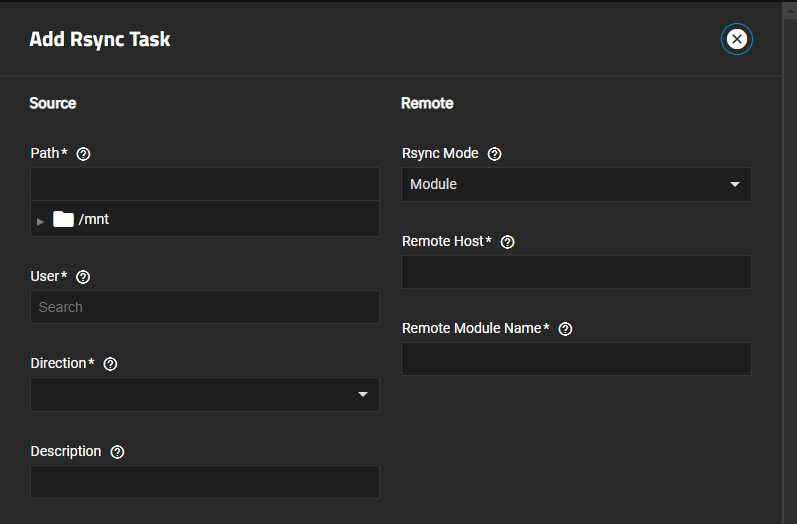
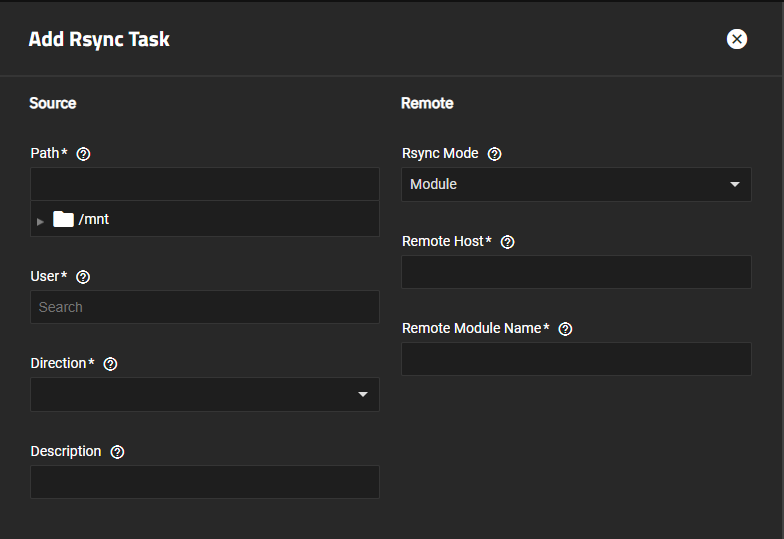
Update Rsync Tasks UI Ref Article
This commit updates the RsyncTasksScreensSCALE.md article  by adding new screenshots and content on the Rsync Tasks screen, and the difference between the Module and SSH setting screens, and updates the descriptions for settings, and reorganizes the Other Options settings. It adds the advanced scheduler snippet in an expand.

diff --git a/content/SCALE/SCALEUIReference/DataProtection/RsyncTasksScreensSCALE.md b/content/SCALE/SCALEUIReference/DataProtection/RsyncTasksScreensSCALE.md
@@ -1,6 +1,6 @@
 ---
 title: "Rsync Tasks Screens"
-description: "Provides information on the Rsync Task screens and settings."
+description: "Provides information on the Rsync Tasks screens and settings."
 weight: 30
 alias:
 tags:
@@ -8,31 +8,54 @@ tags:
  - ssh
 ---
 
-The **Rsync Task** widget on the **Data Protection** screen lists rsync tasks configured on the TrueNAS system.
+The **Rsync Task** widget on the **Data Protection** screen shows configured rsync tasks configured on the TrueNAS system, and provides access to configuration screens to add single-time or scheduled recurring transfers between TrueNAS SCALE and an rsync backup server.
+Rsync tasks are an effective method to back up data to a remote location.
+
+
+## Rsync Task Widget
+The **Rsync Tasks** widget shows a list of tasks configured on the system.
 
 {{< trueimage src="/images/SCALE/DataProtection/RsyncTaskWidget.png" alt="Data Protection Rsync Task Widget" id="Data Protection Rsync Task Widget" >}}
 
-The **Rsync Tasks** widget displays **No Rsync Tasks configured** before adding a task.
+The **Rsync Tasks** widget shows **No Rsync Tasks configured** before adding a task.
 
 {{< trueimage src="/images/SCALE/DataProtection/RsyncTaskWidgetNoTasks.png" alt="Data Protection Rsync Task Widget No Tasks" id="Data Protection Rsync Task Widget No Tasks" >}}
 
+Click on the widegt header to open the [**Rsync Task**](#rsync-task-screen) screen that lists all tasks configured on the system.
+
 **Add** opens the **[Add Rsync Task](#add-and-edit-rsync-task-screens)** screen.
 
-Each rsync task is a link to open the **[Edit Rsync Task](#add-and-edit-rsync-task-screens)** screen.
+Each task includes three icons for various functions:
 
-The widget displays the status of a task as **PENDING**, **RUNNING**, **SUCCESS** or **FAILED**.
+* The <span class="material-icons">edit</span> **Edit** icon opens the ****[Edit Rsync Task](#add-and-edit-rsync-task-screens)** screen populated with with the settings for that task.
 
-Use the <span class="material-icons">play_arrow</span> **Run Now** icon to manually run the task.
+* The <i class="material-icons" aria-hidden="true" title="Run Now">play_arrow</i> **Run Now** icon starts the rsync, running it outside of the scheduled time. 
 
-Use the <span class="material-icons">delete</span> icon to open a delete confirmation dialog.
+* The <span class="material-icons">delete</span> **Delete** icon opens a confirmation dialog before the system deletes the task.
+
+**State** displays the status of the next cloud sync task as **SUCCESS** for completed tasks, **FAILED** if the task fails to complete the sync, and **PENDING** for tasks that have not run yet.
+Click on the state oval to open the **Logs** dialog for that task. **Download Logs** saves a copy of the current task logs.
+
+{{< trueimage src="/images/SCALE/DataProtection/RsyncTaskLogDialogg.png" alt="Rsync Task Log Dialog" id="Rsync Task Log Dialog" >}}
+
+## Rsync Task Screen
+The **Rsync Task** screen lists all tasks configured on the system.
+
+{{< trueimage src="/images/SCALE/DataProtection/RsyncTasksScreen.png" alt="Rsync Task Screen" id="Rsync Task Screen" >}}
+
+Each task shows details about the configured task and the same icon buttons found on the Rsync Task widget to run the task outside of the scheduled time, edit and/or delete the task.
 
 ## Add and Edit Rsync Task Screens
 The **Add Rsync Task** and **Edit Rsync Task** display the same settings.
 
 ### Source and Remote Options
-**Source** and **Remote** settings specify the direction of the remote sync, the TrueNAS system and the remote rsync server paths to or from the data location, the method to uses to sync the TrueNAS and remote servers and the user with permissions to do the remote sync operation.
+**Source** settings specify the location of the stored data to sync with a remote server, sets the user that performs the task, and the direction of the task (send or receive data).
+The **Remote** settings specify the mode for the task and remote host connection information.
+Settings change base on the **Rsync Mode** selected (**Module** or **SSH**).
 
-{{< trueimage src="/images/SCALE/DataProtection/AddRsyncTaskSourceAndRemoteSettings.png" alt="Rsync Task Source and Remote Settings" id="Rsync Task Source and Remote Settings" >}}
+{{< trueimage src="/images/SCALE/DataProtection/AddRsyncTaskSourceAndRemoteSettings.png" alt="Rsync Task Source and Remote Module Settings" id="Rsync Task Source and Remote Module Settings" >}}
+
+{{< trueimage src="/images/SCALE/DataProtection/AddRsyncTaskSourceRemoteSSH.png" alt="Rsync Task Source and Remote SSH Settings" id="Rsync Task Source and Remote SSH Settings" >}}
 
 {{< include file="/static/includes/FileExplorerFolderIcons.md" >}}
 
@@ -40,31 +63,44 @@ The **Add Rsync Task** and **Edit Rsync Task** display the same settings.
 {{< truetable >}}
 | Setting | Description |
 |---------|-------------|
-| **Path** | Required. Enter or use the <span class="material-icons">arrow_right</span> to the left of **/mnt** folder to browse to the path to copy. Linux file path limits apply. Other operating systems can have different limits which might affect how you can use them as sources or destinations. |
-| **User** | Required. Select the user to run the rsync task. Select a user that has permissions to write to the specified directory on the remote host. |
-| **Direction** | Required. Select the direction of the flow of data to the remote host. Options are **Push** or **Pull**. During a push, the dataset transfers to the remote module. During a pull, the dataset stores files from the remote system. |
-| **Description** | Enter a description of the rsync task. |
-| **Rsync Mode** | Select the mode from the dropdown list. Select **Module** to use a custom-defined remote module from the rsync server or select **SSH** to use an SSH configuration for the rsync task. The remote system must have SSH enabled. The host system needs an established SSH connection to the remote for the rsync task. **SSH** displays more settings. |
-| **Remote Host** | Required. Enter the IP address or host name of the remote system that stores the copy. Use the format `username@remote_host` if the user name differs on the remote host. |
-| **Remote Module Name** | Required. If **Rsync Mode** is **Module** specify the name of the module on the remote rsync server. Define at least one module in [rsyncd.conf(5)](https://www.samba.org/ftp/rsync/rsyncd.conf.html) on the rsync server. Type the **Remote Module Name** exactly as it appears on the remote system. |
-| **Remote SSH Port** | Required when **Rsync Mode** is **SSH**. Enter the SSH port number of the remote system. By default, **22** is reserved in TrueNAS. |
+| **Path** | (Required) Enter or browse to the dataset or directory to sync with a remote server. Use the <span class="material-icons">arrow_right</span> to the left of **/mnt** folder to expand the folder tree, then click on the name to select and populate the **Path** field. Linux file path limits apply. Other operating systems can have different limits which might affect how to use them as sources or destinations. |
+| **User** | (Required) Select the user to run the rsync task. Select a user that has permissions to write to the specified directory on the remote host. If setting **Rsync Mode** to **SSH**, the user must have an SSH private key in their home directory if **Connect using** is set to **SSH private key stored in user's home directory**. |
+| **Direction** | (Required) Select the direction of the flow of data to the remote host. Options are:<br><li>**Push** - During a push, the dataset transfers to the remote module.<br><li>**Pull** - During a pull, the dataset stores files from the remote system.</li> |
+| **Description** | (Optional) Enter a description of the rsync task. |
+| **Rsync Mode** | Select the mode from the dropdown list. Options are:<br><li>**Module** - Select to use a custom-defined remote module from the rsync server.<br><li>**SSH** - Select to use an SSH configuration for the rsync task. The remote system must have SSH enabled. The host system needs an established SSH connection to the remote for the rsync task. **SSH** displays more settings. |
+| **Remote Host** | (Required) Enter the IP address or host name of the remote system that stores the copy. Use the format `username@remote_host` if the user name differs on the remote host. Or enter the IP address for the remote system. |
+| **Remote Module Name** | (Required) If **Rsync Mode** is set to **Module**, specify the name of the module on the remote rsync server. Define at least one module per [rsyncd.conf(5)](https://www.samba.org/ftp/rsync/rsyncd.conf.html) on the remote rsync server. Enter the **Module Name** exactly as it appears on the remote system. |
+| **Connect using** | Select the connection method from the dropdown list. Options are:<br><li>**SSH private key stored in user's home directory** - If selected, the user entered in **User** must have an SSH private key added and stored in the home directory for the user. Create the SSH connection and keypair, download the keys, then add the private key to the user in the UI and to the home directory either from the **Shell** using Linux CLI commands or while in an SSH session with the system.<br><li>**SSH connection from the keychain** - Requires creating an [SSH connection and keypair]({{< relref "AddSSHConnectionKeyPair.md" >}}) before setting up the rsync task. |
+| **Remote SSH Port** |  (Required) If **Rsync Mode** is set to **SSH**, enter the SSH port number of the remote system. By default, **22** is reserved in TrueNAS. |
 | **Remote Path** | Enter an existing path on the remote host. Maximum path length is 255 characters. |
-| **Validate Remote Path** | Displays if **Rsync Mode** is **SSH**. Select to automatically create the defined **Remote Path** if it does not exist. |
+| **Validate Remote Path** | Shows when **Rsync Mode** is set to **SSH**. Select to automatically create the defined **Remote Path** if it does not exist. |
 {{< /truetable >}}
 {{< /expand >}}
 
 ### Schedule and More Options 
-**Schedule** defines when the remote sync task occurs and **More Options** specify other settings related to when and how the rsync occurs.
+**Schedule** defines when the remote sync task occurs.
+The **More Options** specify other settings related to when and how the rsync occurs.
 
 {{< trueimage src="/images/SCALE/DataProtection/AddRsyncTaskSchedOpt.png" alt="Rsync Task Schedule and Other Options Settings" id="Rsync Task Schedule and Other Options Settings" >}}
 
-{{< expand "Schedule and More Options Settings" "v" >}}
+{{< expand "Schedule Settings" "v" >}}
 {{< truetable >}}
 | Setting | Description |
 |---------|-------------|
-| **Schedule** | Select a schedule preset or select **Custom** to open the advanced scheduler. |
+| **Schedule** | Select a schedule preset or choose **Custom** to open the advanced scheduler. |
 | **Recursive** | Select to include all subdirectories of the specified directory. When cleared, only the specified directory is included. |
 | **Enabled** | Select to enable this rsync task. Clear to disable this rsync task without deleting it. |
+{{< /truetable >}}
+
+{{< expand "Advanced Scheduler" "v" >}}
+{{< include file="/static/includes/AdvancedScheduler.md" >}}
+{{< /expand >}}
+{{< /expand >}}
+
+{{< expand "More Options Settings" "v" >}}
+{{< truetable >}}
+| Setting | Description |
+|---------|-------------|
 | **Times** | Select to preserve modification times of files. |
 | **Compress** | Select to reduce the size of data to transmit. Recommended for slow connections. |
 | **Archive** |  Select to preserve symlinks, permissions, modification times, group and special files. When selected, rsync runs recursively. When run as root, owner, device files, and special files are also preserved. Equal to passing the flags `-rlptgoD` to rsync. |
